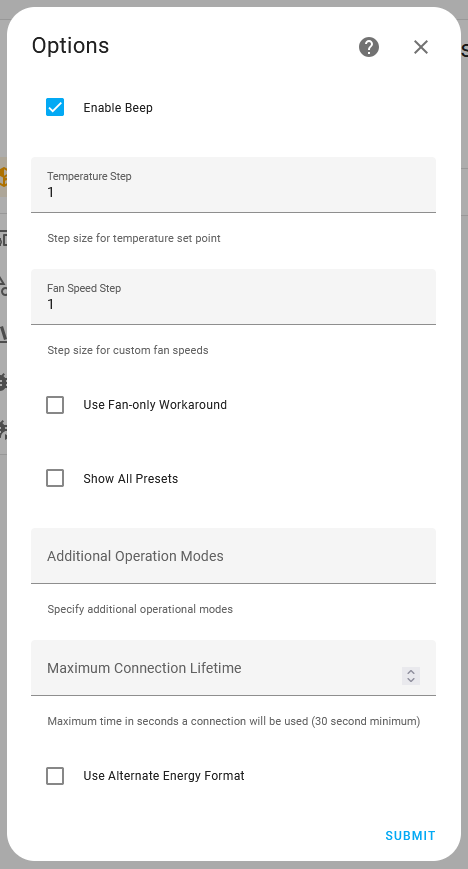
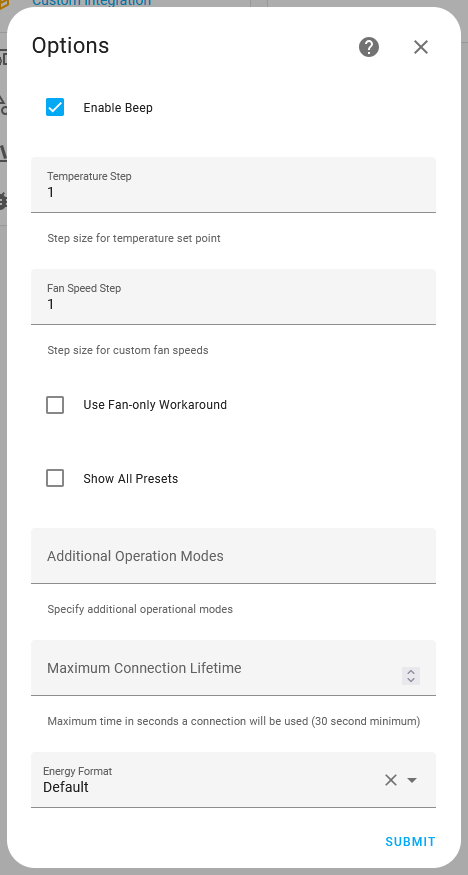
Add support for all 3 energy formats (#282)
* Add support for a 3rd alternate energy format.

The 3 formats appear to be:
- BCD
- Binary
- Binary with energy reduced by a power of 10

diff --git a/custom_components/midea_ac/config_flow.py b/custom_components/midea_ac/config_flow.py
@@ -11,7 +11,10 @@ from homeassistant.const import (CONF_COUNTRY_CODE, CONF_HOST, CONF_ID,
 from homeassistant.core import callback
 from homeassistant.data_entry_flow import FlowResult
 from homeassistant.helpers.selector import (CountrySelector,
-                                            CountrySelectorConfig)
+                                            CountrySelectorConfig,
+                                            SelectSelector,
+                                            SelectSelectorConfig,
+                                            SelectSelectorMode)
 from msmart.const import DeviceType
 from msmart.device import AirConditioner as AC
 from msmart.discover import Discover
@@ -19,10 +22,10 @@ from msmart.lan import AuthenticationError
 
 from .const import (CONF_ADDITIONAL_OPERATION_MODES, CONF_BEEP,
                     CONF_CLOUD_COUNTRY_CODES, CONF_DEFAULT_CLOUD_COUNTRY,
-                    CONF_FAN_SPEED_STEP, CONF_KEY,
+                    CONF_ENERGY_FORMAT, CONF_FAN_SPEED_STEP, CONF_KEY,
                     CONF_MAX_CONNECTION_LIFETIME, CONF_SHOW_ALL_PRESETS,
-                    CONF_TEMP_STEP, CONF_USE_ALTERNATE_ENERGY_FORMAT,
-                    CONF_USE_FAN_ONLY_WORKAROUND, DOMAIN)
+                    CONF_TEMP_STEP, CONF_USE_FAN_ONLY_WORKAROUND, DOMAIN,
+                    EnergyFormat)
 
 _DEFAULT_OPTIONS = {
     CONF_BEEP: True,
@@ -32,7 +35,7 @@ _DEFAULT_OPTIONS = {
     CONF_SHOW_ALL_PRESETS: False,
     CONF_ADDITIONAL_OPERATION_MODES: None,
     CONF_MAX_CONNECTION_LIFETIME: None,
-    CONF_USE_ALTERNATE_ENERGY_FORMAT: False,
+    CONF_ENERGY_FORMAT: EnergyFormat.DEFAULT,
 }
 
 _CLOUD_CREDENTIALS = {
@@ -45,7 +48,7 @@ class MideaConfigFlow(ConfigFlow, domain=DOMAIN):
     """Config flow for Midea Smart AC."""
 
     VERSION = 1
-    MINOR_VERSION = 2
+    MINOR_VERSION = 3
 
     async def async_step_user(self, _) -> FlowResult:
         """Handle a config flow initialized by the user."""
@@ -281,8 +284,16 @@ class MideaOptionsFlow(OptionsFlow):
                          description={"suggested_value": options.get(CONF_ADDITIONAL_OPERATION_MODES, None)}): cv.string,
             vol.Optional(CONF_MAX_CONNECTION_LIFETIME,
                          description={"suggested_value": options.get(CONF_MAX_CONNECTION_LIFETIME, None)}): vol.All(vol.Coerce(int), vol.Range(min=30)),
-            vol.Optional(CONF_USE_ALTERNATE_ENERGY_FORMAT,
-                         default=options.get(CONF_USE_ALTERNATE_ENERGY_FORMAT, False)): cv.boolean,
+            vol.Optional(CONF_ENERGY_FORMAT,
+                         default=options.get(
+                             CONF_ENERGY_FORMAT, EnergyFormat.DEFAULT)
+                         ): SelectSelector(
+                             SelectSelectorConfig(
+                                 options=[e.value for e in EnergyFormat],
+                                 translation_key="energy_format",
+                                 mode=SelectSelectorMode.DROPDOWN,
+                             )
+            ),
         })
 
         return self.async_show_form(step_id="init", data_schema=data_schema)

diff --git a/custom_components/midea_ac/__init__.py b/custom_components/midea_ac/__init__.py
@@ -12,8 +12,8 @@ from msmart import __version__ as MSMART_VERISON
 from msmart.device import AirConditioner as AC
 from msmart.lan import AuthenticationError
 
-from .const import (CONF_KEY, CONF_MAX_CONNECTION_LIFETIME,
-                    CONF_USE_ALTERNATE_ENERGY_FORMAT, DOMAIN)
+from .const import (CONF_ENERGY_FORMAT, CONF_KEY, CONF_MAX_CONNECTION_LIFETIME,
+                    DOMAIN, EnergyFormat)
 from .coordinator import MideaDeviceUpdateCoordinator
 
 _LOGGER = logging.getLogger(__name__)
@@ -51,9 +51,9 @@ async def async_setup_entry(hass: HomeAssistant, config_entry: ConfigEntry) -> b
         device.set_max_connection_lifetime(lifetime)
 
     # Configure energy format
-    if config_entry.options.get(CONF_USE_ALTERNATE_ENERGY_FORMAT):
+    if (energy_format := config_entry.options.get(CONF_ENERGY_FORMAT)) != EnergyFormat.DEFAULT:
         _LOGGER.info(
-            "Using alternate energy format for device ID %s.", device.id)
+            "Using alternate energy format %s for device ID %s.", energy_format, device.id)
         device.use_alternate_energy_format = True
 
     # Configure token and k1 as needed
@@ -102,6 +102,17 @@ async def async_migrate_entry(hass: HomeAssistant, config_entry: ConfigEntry) ->
         if config_entry.minor_version == 1:
             hass.config_entries.async_update_entry(
                 config_entry, unique_id=str(config_entry.unique_id), minor_version=2)
+
+        # 1.2 -> 1.3: Convert alternate energy boolean option to enum
+        if config_entry.minor_version == 2:
+            new_options = {**config_entry.options}
+            if new_options.pop("use_alternate_energy_format", False):
+                new_options[CONF_ENERGY_FORMAT] = EnergyFormat.ALTERNATE_B
+            else:
+                new_options[CONF_ENERGY_FORMAT] = EnergyFormat.DEFAULT
+
+            hass.config_entries.async_update_entry(
+                config_entry, options=new_options, minor_version=3)
 
     _LOGGER.debug("Migration to configuration version %s.%s successful.",
                   config_entry.version, config_entry.minor_version)

diff --git a/custom_components/midea_ac/sensor.py b/custom_components/midea_ac/sensor.py
@@ -12,7 +12,7 @@ from homeassistant.const import (PERCENTAGE, UnitOfEnergy, UnitOfPower,
 from homeassistant.core import HomeAssistant
 from homeassistant.helpers.entity_platform import AddEntitiesCallback
 
-from .const import DOMAIN
+from .const import CONF_ENERGY_FORMAT, DOMAIN, EnergyFormat
 from .coordinator import MideaCoordinatorEntity, MideaDeviceUpdateCoordinator
 
 _LOGGER = logging.getLogger(__name__)
@@ -29,6 +29,11 @@ async def async_setup_entry(
 
     # Fetch coordinator from global data
     coordinator = hass.data[DOMAIN][config_entry.entry_id]
+
+    # Configure energy format
+    energy_scale = 1.0
+    if config_entry.options.get(CONF_ENERGY_FORMAT) == EnergyFormat.ALTERNATE_B:
+        energy_scale = .1
 
     entities = [
         # Temperature sensors
@@ -50,14 +55,14 @@ async def async_setup_entry(
                           UnitOfEnergy.KILO_WATT_HOUR,
                           "total_energy_usage",
                           state_class=SensorStateClass.TOTAL,
-                          scale=.1 if coordinator.device.use_alternate_energy_format else 1.0),
+                          scale=energy_scale),
         MideaEnergySensor(coordinator,
                           "current_energy_usage",
                           SensorDeviceClass.ENERGY,
                           UnitOfEnergy.KILO_WATT_HOUR,
                           "current_energy_usage",
                           state_class=SensorStateClass.TOTAL_INCREASING,
-                          scale=.1 if coordinator.device.use_alternate_energy_format else 1.0),
+                          scale=energy_scale),
         MideaEnergySensor(coordinator,
                           "real_time_power_usage",
                           SensorDeviceClass.POWER,

diff --git a/custom_components/midea_ac/const.py b/custom_components/midea_ac/const.py
@@ -1,3 +1,5 @@
+from enum import StrEnum, auto
+
 DOMAIN = "midea_ac"
 
 CONF_KEY = "k1"
@@ -8,8 +10,14 @@ CONF_USE_FAN_ONLY_WORKAROUND = "use_fan_only_workaround"
 CONF_ADDITIONAL_OPERATION_MODES = "additional_operation_modes"
 CONF_SHOW_ALL_PRESETS = "show_all_presets"
 CONF_MAX_CONNECTION_LIFETIME = "max_connection_lifetime"
-CONF_USE_ALTERNATE_ENERGY_FORMAT = "use_alternate_energy_format"
+CONF_ENERGY_FORMAT = "energy_format"
 CONF_CLOUD_COUNTRY_CODES = ["DE", "KR", "US"]
 CONF_DEFAULT_CLOUD_COUNTRY = "US"
 
 PRESET_IECO = "ieco"
+
+
+class EnergyFormat(StrEnum):
+    DEFAULT = auto()
+    ALTERNATE_A = auto()
+    ALTERNATE_B = auto()

diff --git a/README.md b/README.md
@@ -133,7 +133,8 @@ Name | Default | Description
 **Show All Presets** | False | Show all presets regardless of device's reported capabilities.
 **Additional Operation Modes** | Empty | Additional HVAC modes to make available in case the device's capabilities are incorrect.
 **Maximum Connection Lifetime** | Empty | Limit the time (in seconds) a connection to the device will be used before reconnecting. If left blank, the connection will persist indefinitely. If your device disconnects at regular intervals, set this to a value below the interval.
-**Use Alternate Energy Format** | False | Use an alternative data format when decoding energy and power data from the device.
+**Energy Format** | Default | Select alternative data formats for decoding energy and power data from the device.<br> Options: <ul><li>`Default` - BCD format</li><li>`Alternate A` - Binary format</li><li>`Alternate B` - Binary format, energy scaled by 1/10</li></ul>
+
 
 ## Resolving Connectivity Issues
 Some users have reported issue with their devices periodically becoming unavailable, and with logs full of warnings and errors. This is almost always due to the device terminating the existing connection and briefly rejecting new connections. 
